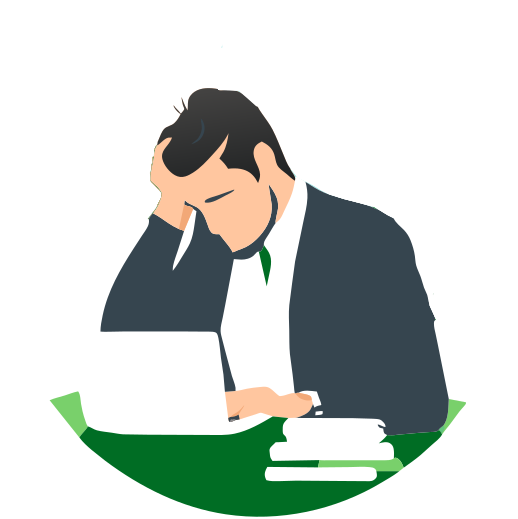
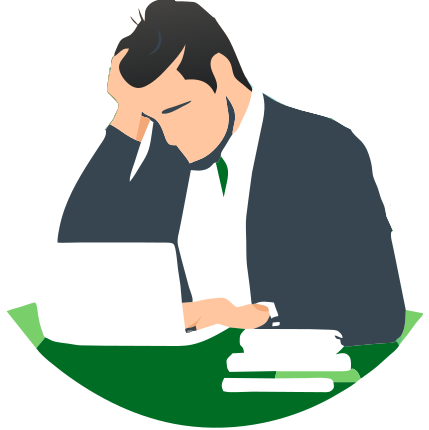
Crop images for about page

diff --git a/about.html b/about.html
@@ -26,7 +26,7 @@
             </div>
             <div class="about-text-p-img">
                 <p>Everything started that hot summer evening. We were teenagers, dreaming to become someone in this world, when we randomly got intorduced to <a href="https://en.wikipedia.org/wiki/Social_media_marketing" target="_blank">SMMA</a>. That's when we figured out: This is the future. Our old computers and our ambitions were driving us crazy. Motivation, struggling and boy's dreams brought us to the place where we are today. To place where we belong.</p>
-                <img src="images/early-days.svg" alt="">
+                <img src="images/early-days.png" alt="">
             </div>
         </div>
 
@@ -45,7 +45,7 @@
             </div>
             <div class="about-text-p-img">
                 <p>Investing costed us ton of money. But investing in education, new laptops and other things are definitely paying off now.</p>
-                <img src="images/expansion.svg" alt="">
+                <img src="images/expansion.png" alt="">
             </div>
         </div>
         <div class="about-text">

diff --git a/style.css b/style.css
@@ -300,7 +300,7 @@ footer {
     font-size: 1.2rem;
     gap: 8px;
     padding: 5px;
-    font-weight: bold;
+    /* font-weight: bold; */
     border-top: 1px solid var(--green);
 }
 
@@ -415,7 +415,7 @@ footer img {
 
 .about-text img {
     height: 200px;
-    width: 200px;
+    width: auto;
 }
 
 .about-contact {
